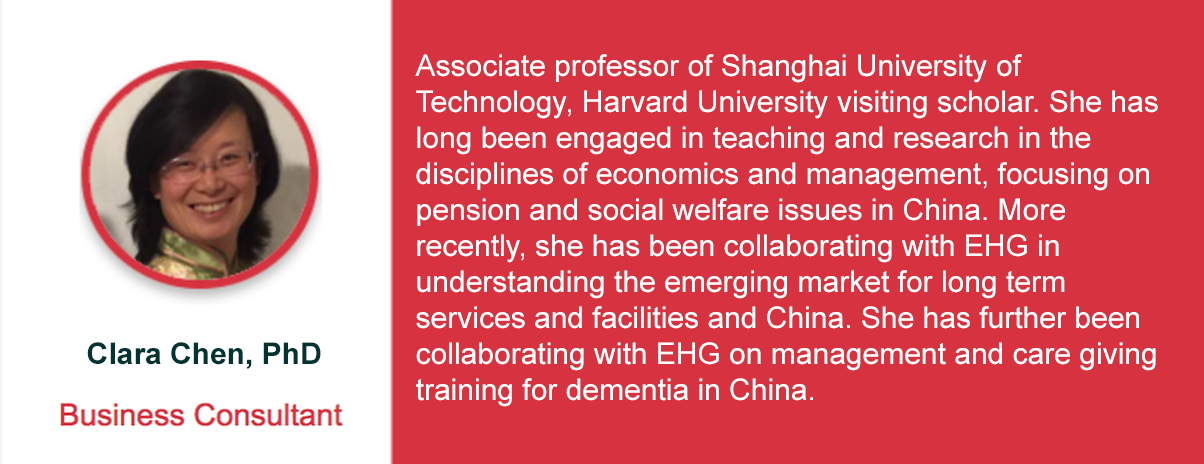
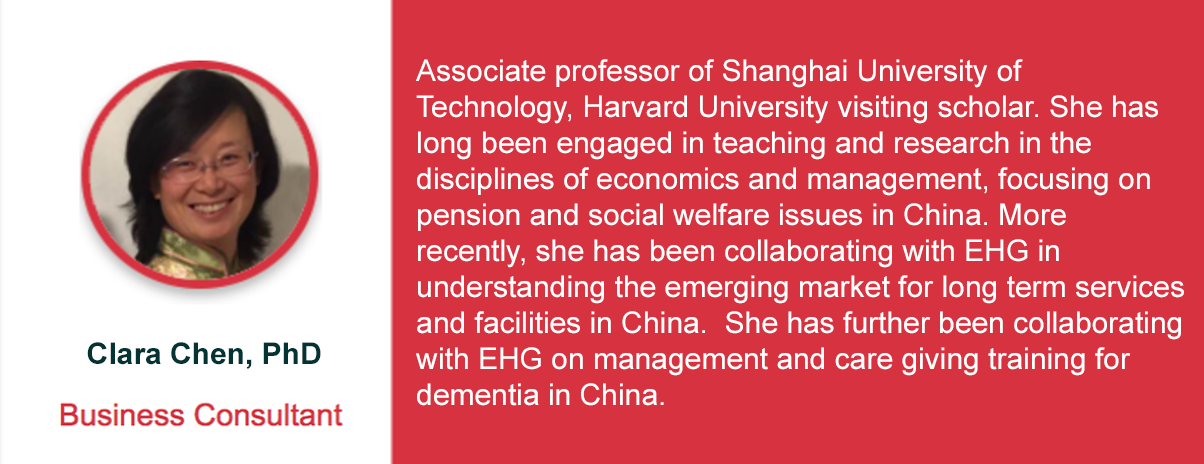
commit
commit

Changed region(s): [[0.338, 0.1207, 0.9834, 0.875]]

diff --git a/tuanduien.html b/tuanduien.html
@@ -45,6 +45,64 @@
       $axure.utils.getReloadPath = function() { return 'resources/reload.html'; };
     </script>
     
+    
+
+
+
+
+
+
+
+
+    <meta name="viewport" content="width=device-width, initial-scale=1">
+<style>
+/* The Modal (background) */
+.modal {
+    display: none; /* Hidden by default */
+    position: fixed; /* Stay in place */
+    z-index: 1; /* Sit on top */
+    padding-top: 100px; /* Location of the box */
+    left: 0;
+    top: 0;
+    width: 100%; /* Full width */
+    height: 100%; /* Full height */
+    overflow: auto; /* Enable scroll if needed */
+    background-color: rgb(0,0,0); /* Fallback color */
+    background-color: rgba(0,0,0,0.4); /* Black w/ opacity */
+}
+
+/* Modal Content */
+.modal-content {
+    background-color: #fefefe;
+    margin: auto;
+    padding: 20px;
+    border: 1px solid #888;
+    width: 80%;
+}
+
+/* The Close Button */
+.close {
+    color: #aaaaaa;
+    float: right;
+    font-size: 28px;
+    font-weight: bold;
+}
+
+.close:hover,
+.close:focus {
+    color: #000;
+    text-decoration: none;
+    cursor: pointer;
+}
+</style>
+    
+    
+    
+    
+    
+    
+    
+    
    
   </head>
   <body>
@@ -53,9 +111,56 @@
  
 
   
+  
+  
+  
+
+
+
+<!-- Trigger/Open The Modal -->
+<button id="myBtn">Open Modal</button>
+
+<!-- The Modal -->
+<div id="myModal" class="modal">
+
+  <!-- Modal content -->
+  <div class="modal-content">
+    <span class="close">&times;</span>
+    <p>Some text in the Modal..</p>
+  </div>
+
+</div>
 
   
+<script>
+
+   // Get the modal
+var modal = document.getElementById('myModal');
+
+// Get the button that opens the modal
+var btn = document.getElementById("myBtn");
+
+// Get the <span> element that closes the modal
+var span = document.getElementsByClassName("close")[0];
+
+// When the user clicks the button, open the modal 
+btn.onclick = function() {
+    modal.style.display = "block";
+}
+
+// When the user clicks on <span> (x), close the modal
+span.onclick = function() {
+    modal.style.display = "none";
+}
+
+// When the user clicks anywhere outside of the modal, close it
+window.onclick = function(event) {
+    if (event.target == modal) {
+        modal.style.display = "none";
+    }
+}
   
+</script>  
   
   
   

diff --git a/index.html b/index.html
@@ -117,7 +117,7 @@
         </div>
       
         <div id="u150" class="text">
-          <p><span>环健集团（EHG）是一个为慢性疾病管理和自我健康管理提供技术创新服务的启动平台，致力于服务老年群体。EHG正在寻找共享这一使命的合作伙伴，寻求针对老龄人口新兴技术开发与评估的合作者。我们的主要策略有：以用户为中心的设计方案，融合新兴技术支持服务，考虑文化背景需要，遵循循证实践理念，结合云端及大数据分析。</span></p>
+          <p><span>环健集团（EHG）是一个为慢性疾病管理和自我健康管理提供技术创新服务的启动平台，致力于服务老年群体。EHG正在寻找共享这一使命的合作伙伴，寻求针对老龄人口新兴技术开发与评估的合作者。我们的主要策略有：以用户为中心的设计方案，融合新兴技术支持服务，考虑文化背景需要，遵循循证实践理念，结合云端及大数据分析</span></p>
         </div>
     
       </div>

diff --git a/files/tuanduien/data.js b/files/tuanduien/data.js
@@ -3332,3 +3332,14 @@
       "scriptId":"u114"},
     "1956f30f926d4669ad6fa3abda9de50f":{
       "scriptId":"u115"}}});
+      
+      
+      
+      
+      
+      
+      
+     
+      
+      
+      
